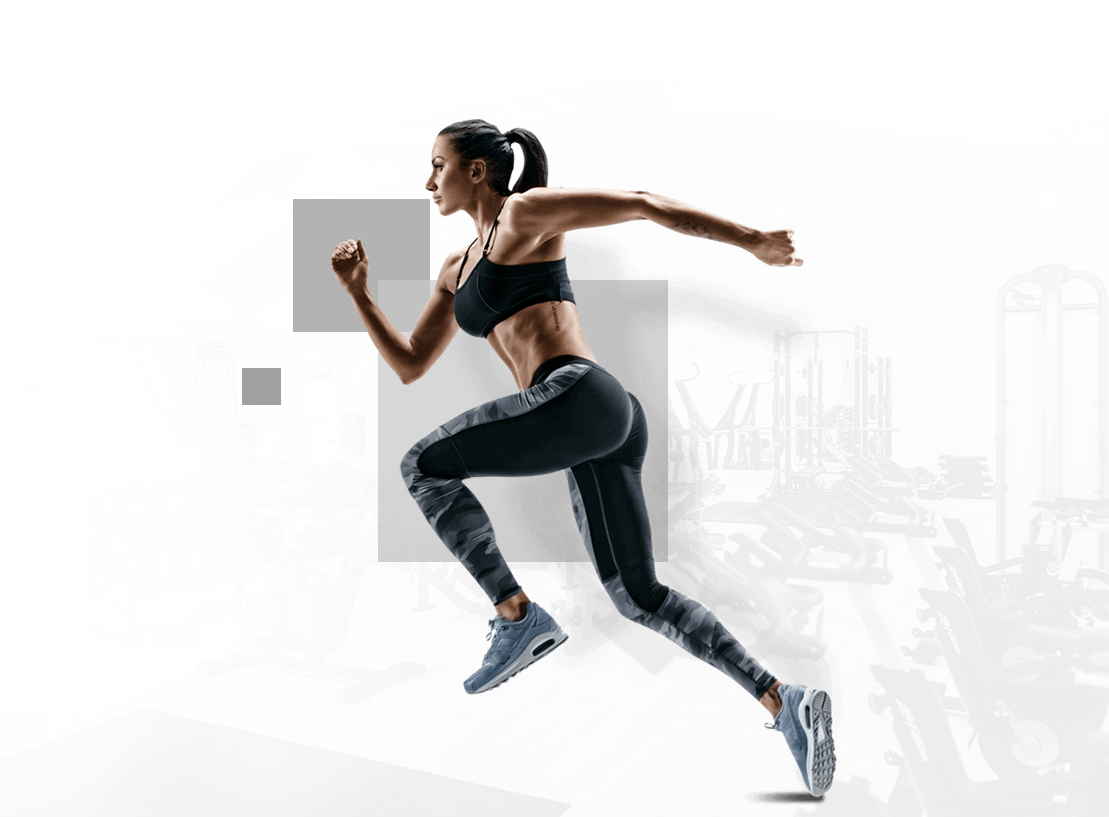
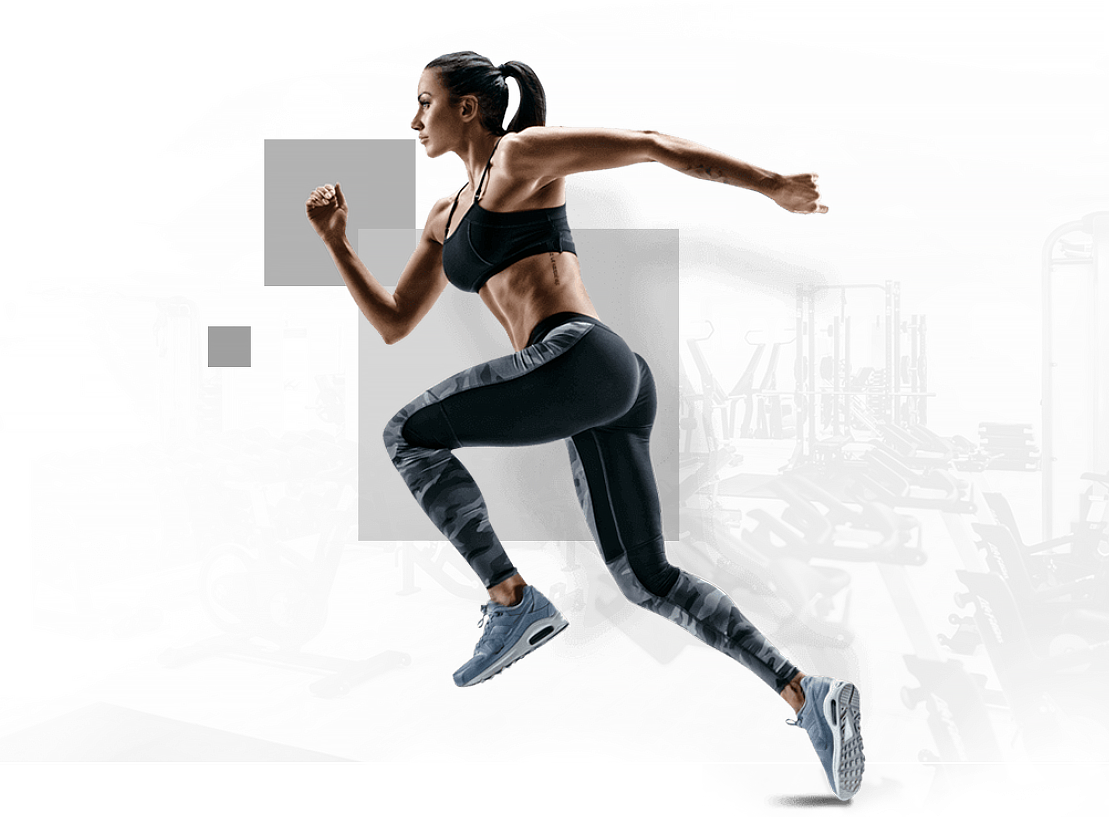
some changes made

Changed region(s): [[0.1839, 0.0612, 0.7971, 1.0], [0.7358, 0.765, 0.7665, 0.7956]]

diff --git a/assets/styles/app.css b/assets/styles/app.css
@@ -423,7 +423,7 @@ button {
     position: absolute;
     width: 100%;
     height: 100%;
-    overflow: hidden;
+    /*overflow: hidden;*/
 }
 
 .bannerBg {
@@ -453,10 +453,10 @@ button {
     -ms-flex-pack: center;
     justify-content: center;
     -webkit-background-size: 100% auto;
-    background-size: 100% auto;
+    background-size: 1000% auto;
     z-index: 1;
-    -webkit-box-shadow: 0px 0px 43px 0px rgba(0, 0, 0, 0.49);
-    box-shadow: 0px 0px 43px 0px rgba(0, 0, 0, 0.49);
+    /*-webkit-box-shadow: 0px 0px 43px 0px rgba(0, 0, 0, 0.49);*/
+    /*box-shadow: 0px 0px 43px 0px rgba(0, 0, 0, 0.49);*/
 }
 
 .bannerWrap.bannerWrap_reab .banner-desc__title {
@@ -4881,6 +4881,7 @@ button {
 
 .fitnes .banner-desc__title {
     color: #171717;
+    line-height: 1.12;
 }
 
 .fitnes-rent .bannerBg {
@@ -4922,8 +4923,8 @@ button {
 }
 
 .fitnes-club .bannerBg {
-    left: -webkit-calc(50% - 130px);
-    left: calc(50% - 130px);
+    left: -webkit-calc(50% - 160px);
+    left: calc(50% - 160px);
 }
 
 .fitnes-club .banner {
@@ -4945,25 +4946,6 @@ button {
     position: relative;
     width: 300px;
     margin-top: 20px;
-}
-
-.fitnes-club .banner .select:after {
-    content: "";
-    border: 10px solid transparent;
-    border-top-color: #fff;
-    font-size: 16px;
-    position: absolute;
-    right: 20px;
-    top: -webkit-calc(50% + 5px);
-    top: calc(50% + 5px);
-    -webkit-transform: translateY(-50%);
-    -ms-transform: translateY(-50%);
-    transform: translateY(-50%);
-    z-index: 1;
-    text-align: center;
-    pointer-events: none;
-    -webkit-box-sizing: border-box;
-    box-sizing: border-box;
 }
 
 .fitnes-club .banner select {

diff --git a/fitness-club/fitnes-klub.html b/fitness-club/fitnes-klub.html
@@ -52,16 +52,16 @@
                         <div class="btn-group">
                             <button
                                     type="button"
-                                    class="btn btn-danger dropdown-toggle"
+                                    class="btn btn-danger dropdown-toggle float-right"
                                     data-toggle="dropdown"
                                     aria-haspopup="true"
                                     aria-expanded="false"
                                     data-flip="false"
-                                    style="width: 295px"
+                                    style="width: 300px;"
                             >
                                 Выбрать раздел
                             </button>
-                            <div class="dropdown-menu" x-placement="bottom-start">
+                            <div class="dropdown-menu" style="width: 300px" x-placement="bottom-start">
                                 <a class="dropdown-item" href="#">Абонементы и цены</a>
                                 <a class="dropdown-item" href="#">Бассейны</a>
                                 <a class="dropdown-item" href="#">Тренажерные залы</a>
